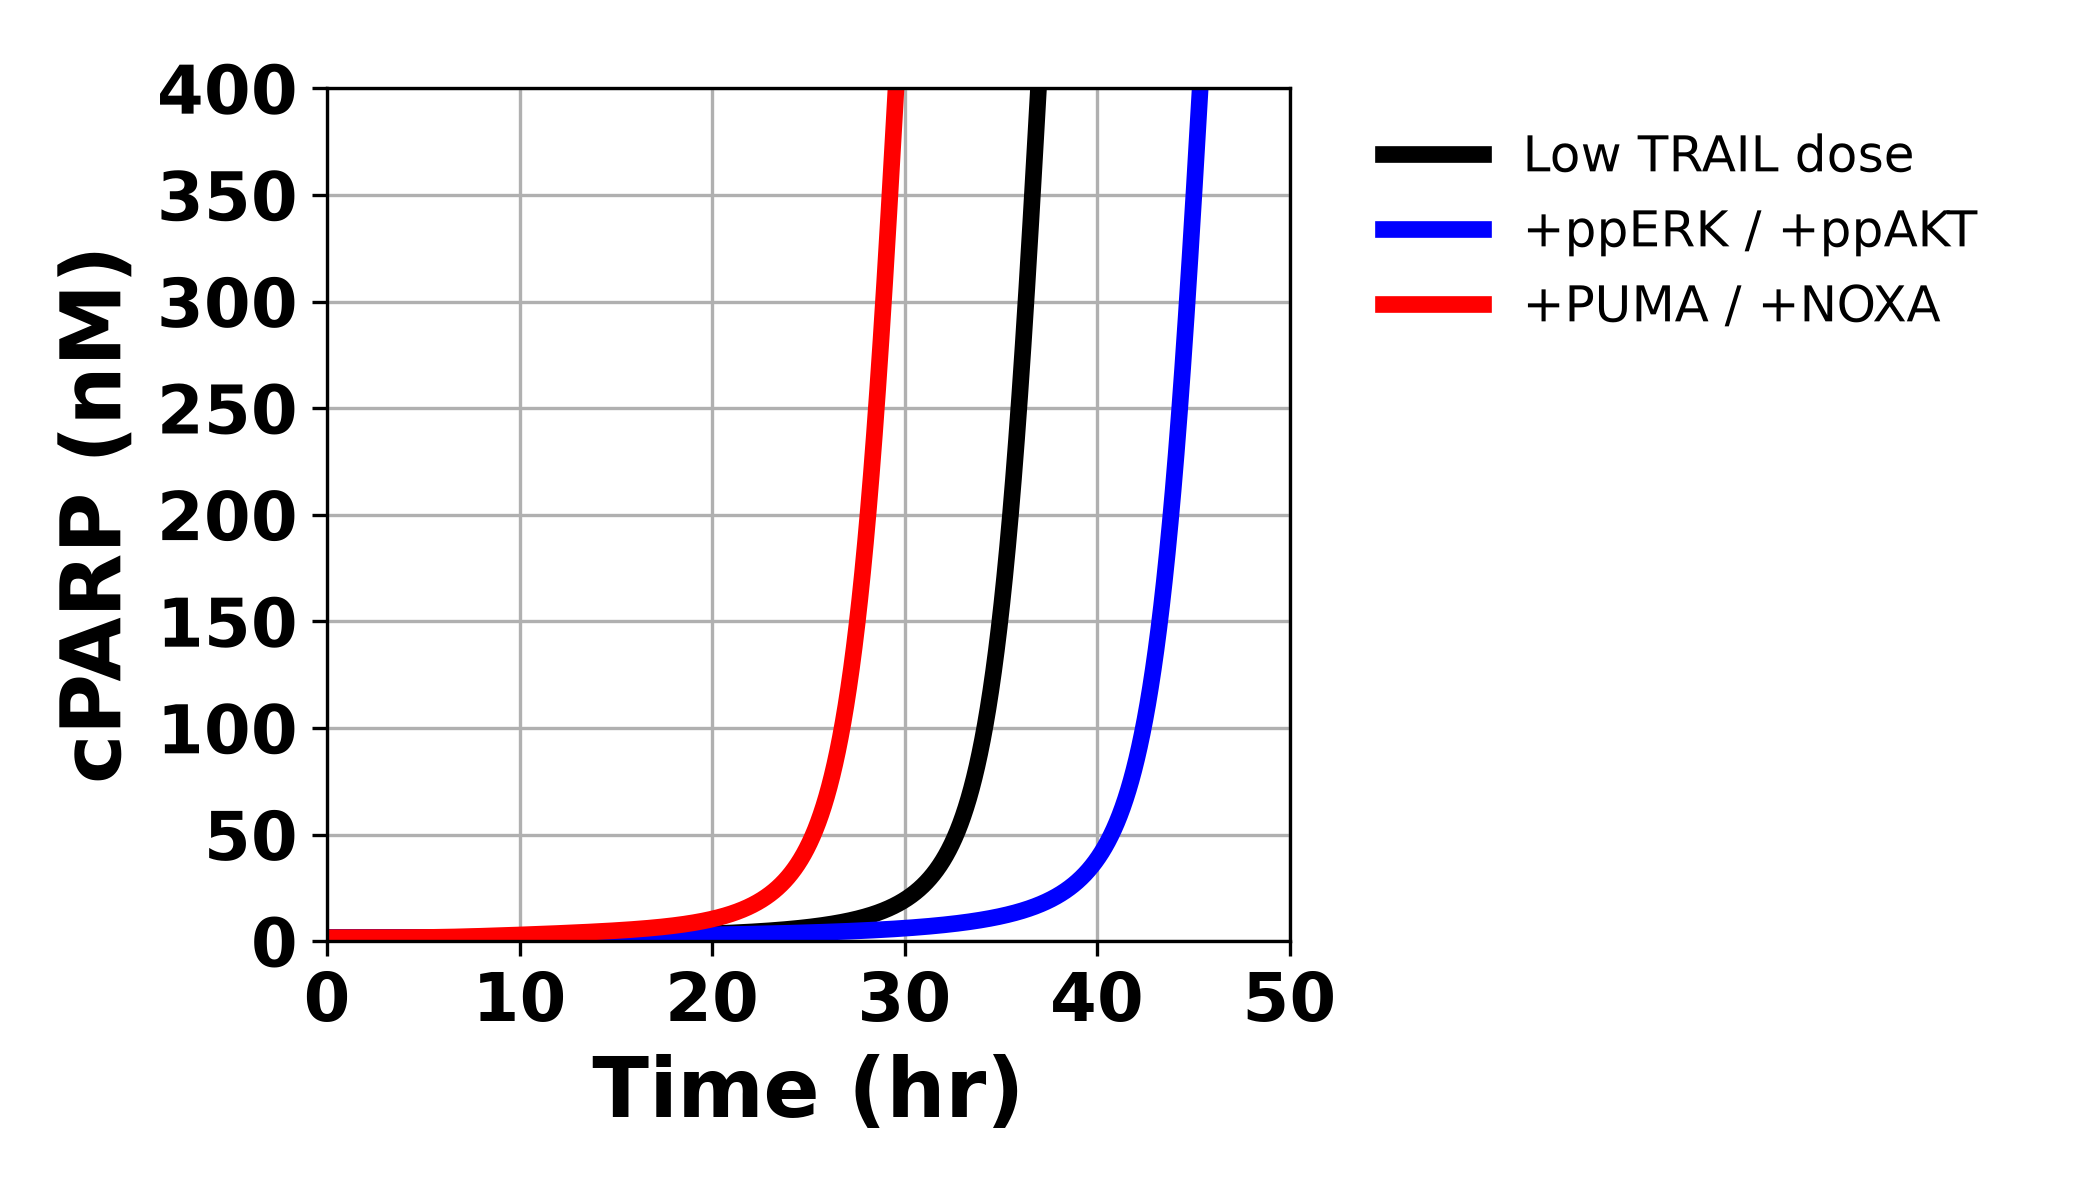
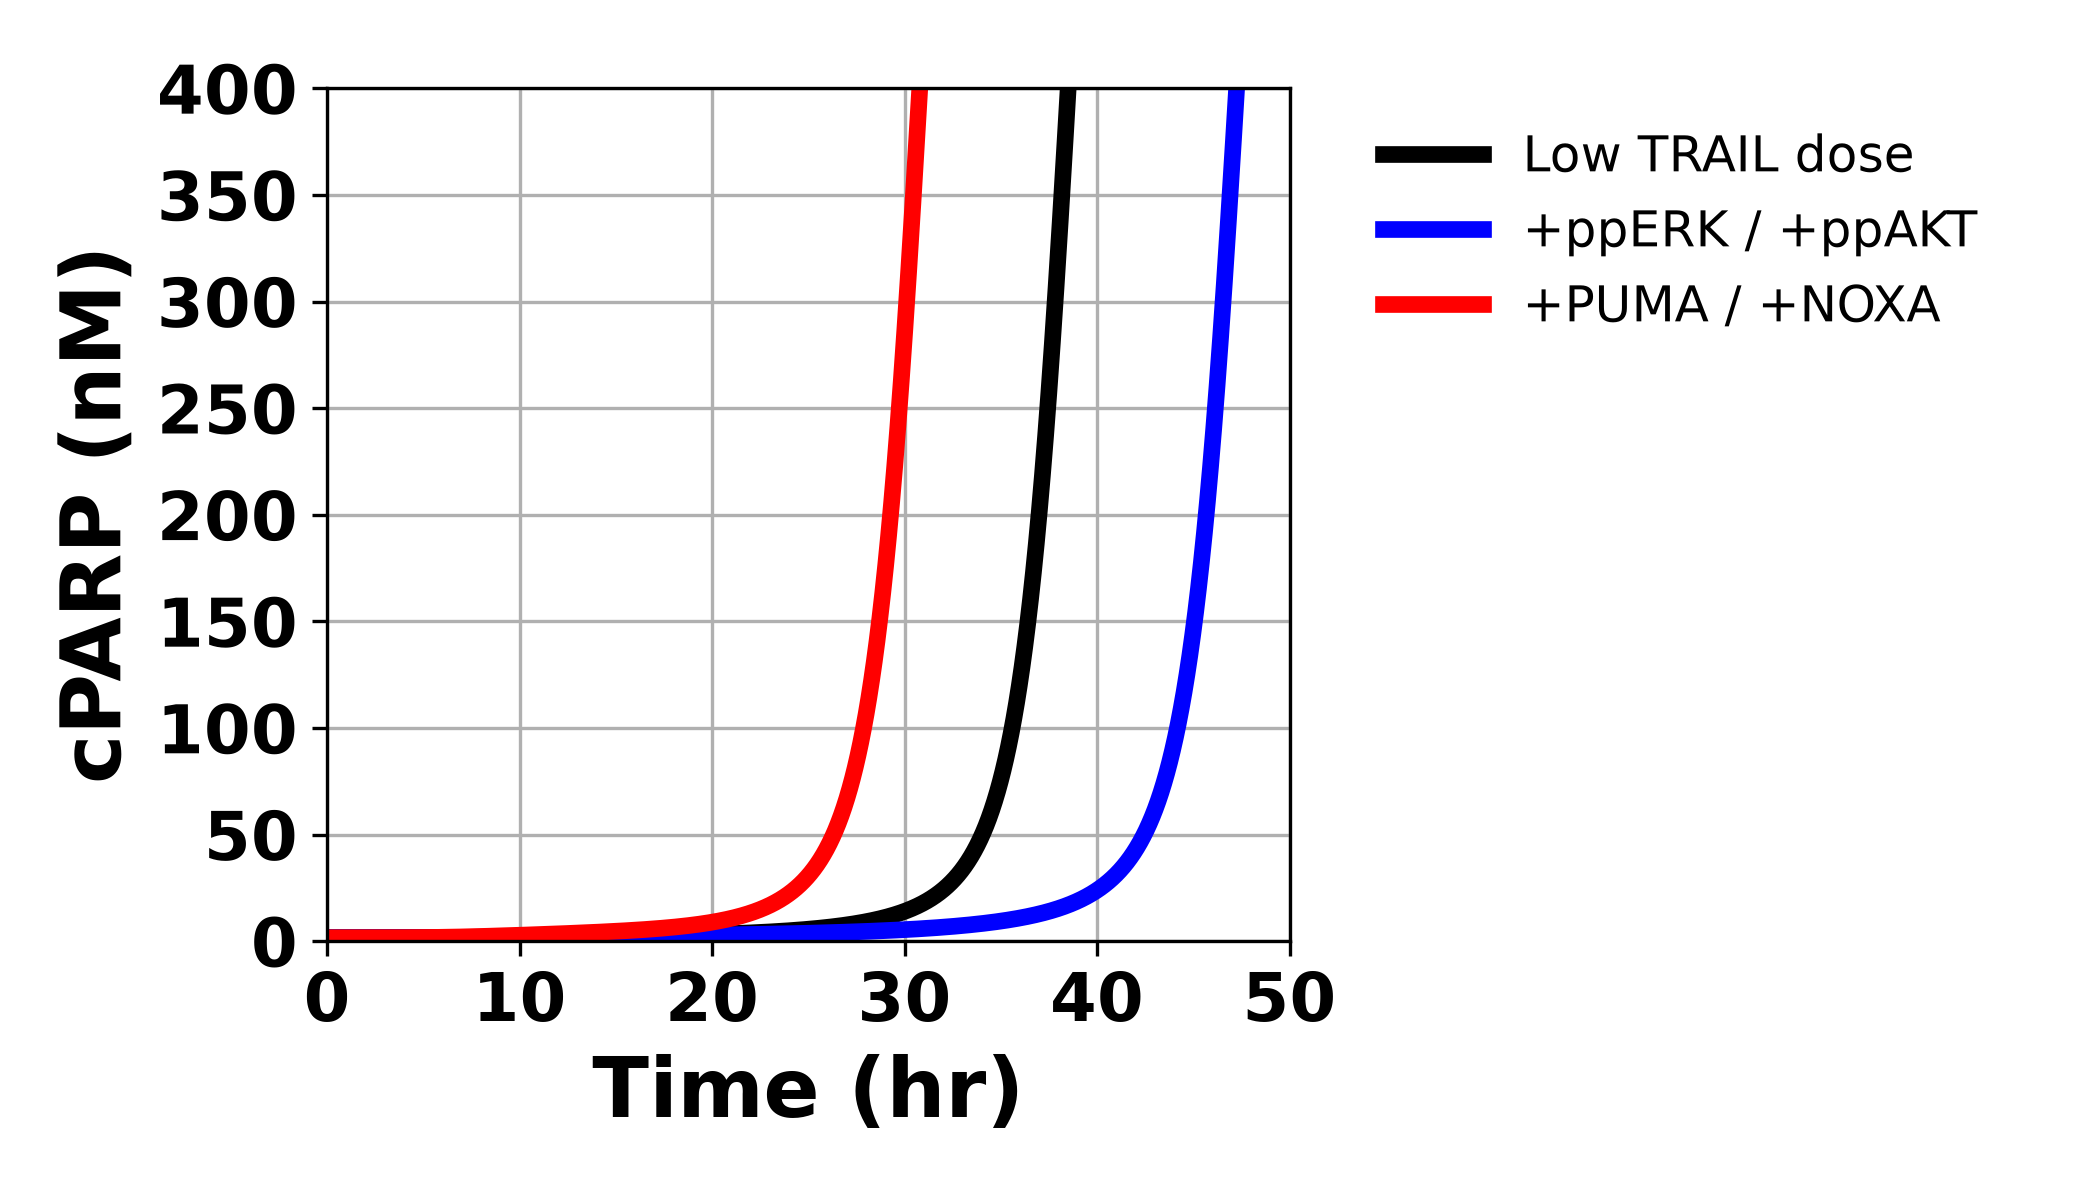
Fix survival signaling plot

Changed region(s): [[0.3405, 0.0617, 0.619, 0.7708]]

diff --git a/models/official/stochastic-gene-expression-v1.4.2/results/benchmarks/survival_signaling/plot.py b/models/official/stochastic-gene-expression-v1.4.2/results/benchmarks/survival_signaling/plot.py
@@ -34,18 +34,18 @@ plt.rcParams.update({
 plt.figure(figsize=(7, 4))
 
 # Load results
-TRAIL_only =  pd.read_csv("Survival_Signaling_step_1_cell_1.tsv", sep="\t", index_col=0)
-TRAIL_ERK_AKT = pd.read_csv("Survival_Signaling_step_2_cell_1.tsv", sep="\t", index_col=0)
-TRAIL_PUMA_NOXA = pd.read_csv("Survival_Signaling_step_3_cell_1.tsv", sep="\t", index_col=0)
+TRAIL_only =  pd.read_csv("Survival_Signaling_step_1_cell_1.tsv", sep="\t", index_col=1)
+TRAIL_ERK_AKT = pd.read_csv("Survival_Signaling_step_2_cell_1.tsv", sep="\t", index_col=1)
+TRAIL_PUMA_NOXA = pd.read_csv("Survival_Signaling_step_3_cell_1.tsv", sep="\t", index_col=1)
 
 # Plot
-plt.plot(TRAIL_only.index / 125, 
+plt.plot(TRAIL_only.index / 3600, 
          TRAIL_only['cyt_prot__cl_PARP1_1_'],
          label='TRAIL only', linewidth=4, color='black')
-plt.plot(TRAIL_ERK_AKT.index / 125, 
+plt.plot(TRAIL_ERK_AKT.index / 3600, 
          TRAIL_ERK_AKT['cyt_prot__cl_PARP1_1_'],
          label='+ppERK/+ppAKT', linewidth=4, color='blue')
-plt.plot(TRAIL_PUMA_NOXA.index / 125, 
+plt.plot(TRAIL_PUMA_NOXA.index / 3600, 
          TRAIL_PUMA_NOXA['cyt_prot__cl_PARP1_1_'],
          label='+PUMA/+NOXA', linewidth=4, color='red')
 
